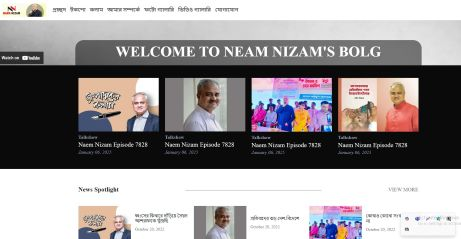
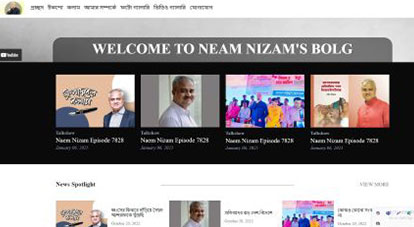
added img-fluid

diff --git a/index.html b/index.html
@@ -141,7 +141,7 @@
                 <!-- item start  -->
                 <div class="col-md-4">
                     <div class="card shadow rounded-0">
-                        <img src="images/project-1.jpg" class="card-img-top rounded-0" alt="...">
+                        <img src="images/project-1.jpg" class="card-img-top rounded-0 img-fluid" alt="...">
                         <div
                             class="card-body our-courses-view-btn-hover d-flex flex-column justify-content-center align-items-center position-relative pb-4">
                             <div
@@ -159,7 +159,7 @@
                 <!-- item start  -->
                 <div class="col-md-4 mt-md-0 mt-5">
                     <div class="card shadow rounded-0">
-                        <img src="images/project_2.jpg" class="card-img-top rounded-0" alt="...">
+                        <img src="images/project_2.jpg" class="card-img-top rounded-0 img-fluid" alt="...">
                         <div
                             class="card-body our-courses-view-btn-hover d-flex flex-column justify-content-center align-items-center position-relative pb-4">
                             <div
@@ -177,7 +177,7 @@
                 <!-- item start  -->
                 <div class="col-md-4 mt-md-0 mt-5">
                     <div class="card shadow rounded-0">
-                        <img src="images/project-3.jpg" class="card-img-top rounded-0" alt="...">
+                        <img src="images/project-3.jpg" class="card-img-top rounded-0 img-fluid" alt="...">
                         <div
                             class="card-body our-courses-view-btn-hover d-flex flex-column justify-content-center align-items-center position-relative pb-4">
                             <div
@@ -195,7 +195,7 @@
                 <!-- item start  -->
                 <div class="col-md-4 mt-5">
                     <div class="card shadow rounded-0">
-                        <img src="images/project-4.jpg" class="card-img-top rounded-0" alt="...">
+                        <img src="images/project-4.jpg" class="card-img-top rounded-0 img-fluid" alt="...">
                         <div
                             class="card-body our-courses-view-btn-hover d-flex flex-column justify-content-center align-items-center position-relative pb-4">
                             <div
@@ -213,7 +213,7 @@
                 <!-- item start  -->
                 <div class="col-md-4 mt-5">
                     <div class="card shadow rounded-0">
-                        <img src="images/project-5.jpg" class="card-img-top rounded-0" alt="...">
+                        <img src="images/project-5.jpg" class="card-img-top rounded-0 img-fluid" alt="...">
                         <div
                             class="card-body our-courses-view-btn-hover d-flex flex-column justify-content-center align-items-center position-relative pb-4">
                             <div
@@ -231,7 +231,7 @@
                 <!-- item start  -->
                 <div class="col-md-4 mt-5">
                     <div class="card shadow rounded-0">
-                        <img src="images/project-6.jpg" class="card-img-top rounded-0" alt="...">
+                        <img src="images/project-6.jpg" class="card-img-top rounded-0 img-fluid" alt="...">
                         <div
                             class="card-body our-courses-view-btn-hover d-flex flex-column justify-content-center align-items-center position-relative pb-4">
                             <div
